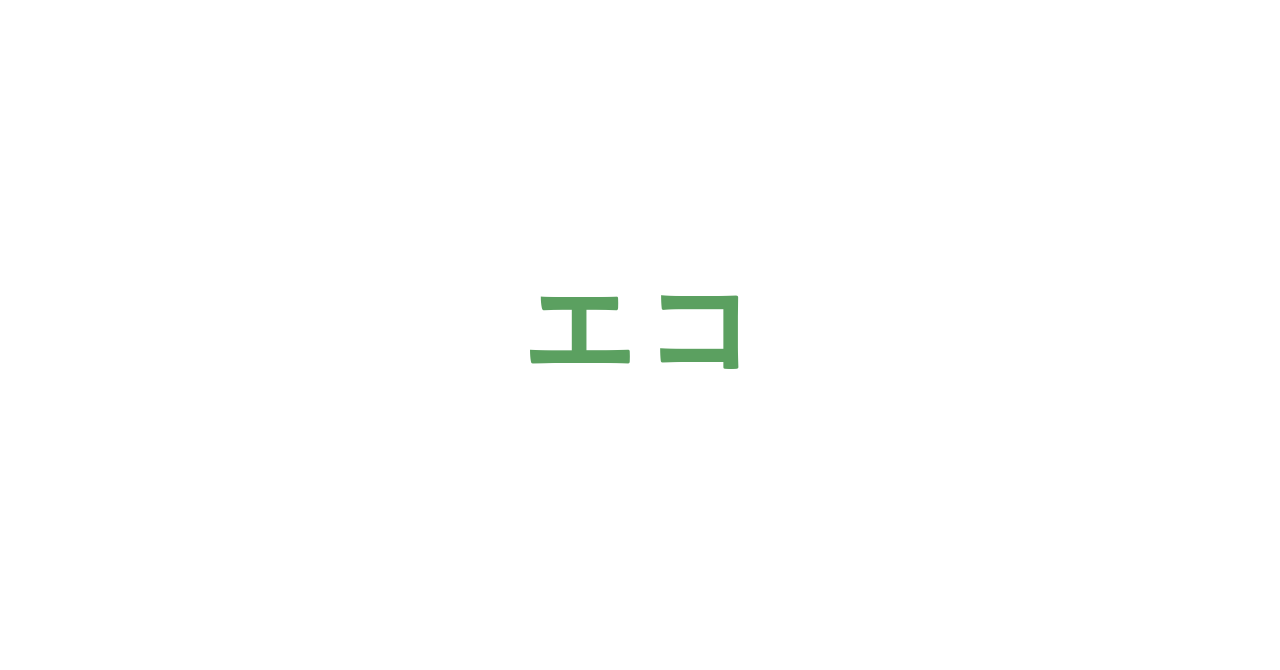
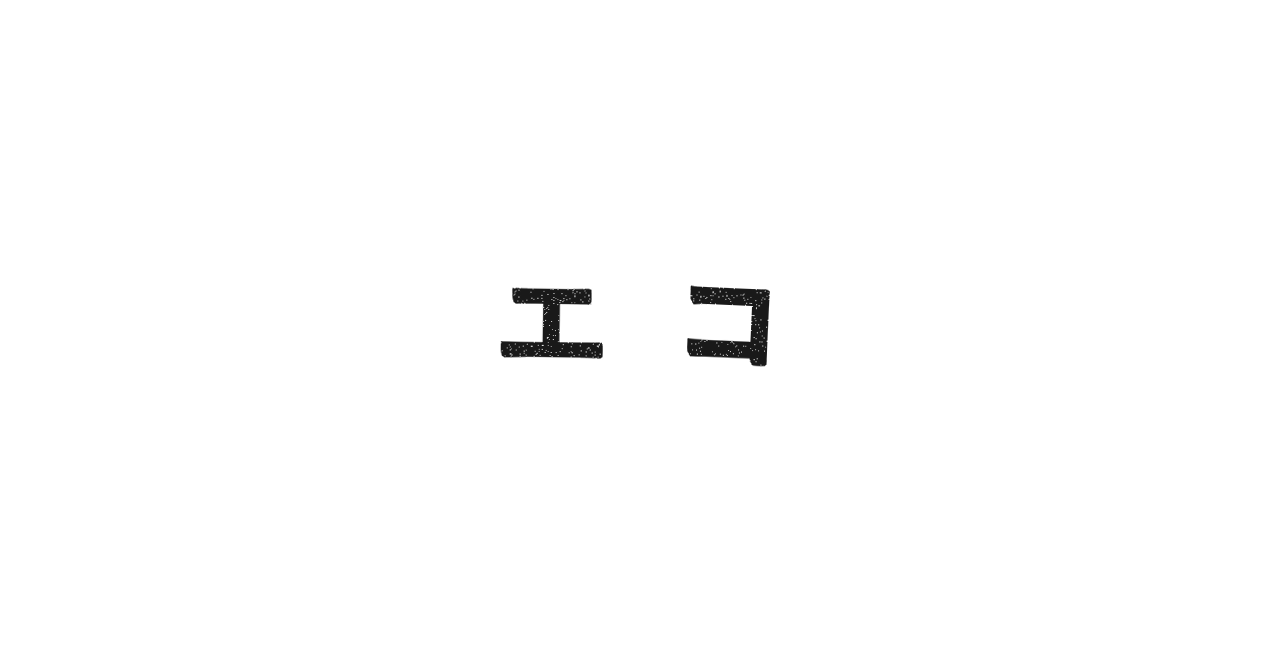
note: 見出し画像を黒・手書きペン風に変更（白背景中央の『エコ』）

Changed region(s): [[0.375, 0.4179, 0.625, 0.5672]]

diff --git a/note/_gen_note_header.py b/note/_gen_note_header.py
@@ -1,21 +1,27 @@
 """note記事のトップ画像（見出し画像）を生成。
-   白背景の中央に、緑の「エコ」を小さく。
+   白背景の中央に、黒の「エコ」を手書き風（ペン）で。
    出力: note/note_header.png（1280×670, noteの推奨比率）
+
+   手書き感の出し方（Pillowのみ）：
+   - フォントを高解像度で一旦描画
+   - 各文字を微妙に回転・上下にずらす（紙に書いた揺れ）
+   - 輪郭をわずかにジッターさせ、線にかすれ（白い抜け）を入れる
 """
-from PIL import Image, ImageDraw, ImageFont
-import os
+from PIL import Image, ImageDraw, ImageFont, ImageFilter
+import os, math, random
 
 HERE = os.path.dirname(os.path.abspath(__file__))
 OUT = os.path.join(HERE, "note_header.png")
 
 W, H = 1280, 670
-GREEN_DEEP = (91, 160, 96)   # #5BA060
+INK = (25, 25, 25)  # ほぼ黒（少し柔らかい黒）
 
-def get_font(size, bold=True):
+def get_font(size):
+    # 手書き風フォントがあれば優先、無ければ太めゴシック
     candidates = [
-        r"C:\Windows\Fonts\YuGothB.ttc" if bold else r"C:\Windows\Fonts\YuGothR.ttc",
-        r"C:\Windows\Fonts\meiryob.ttc" if bold else r"C:\Windows\Fonts\meiryo.ttc",
-        r"C:\Windows\Fonts\YuGothM.ttc",
+        r"C:\Windows\Fonts\YuGothB.ttc",
+        r"C:\Windows\Fonts\HGRPP1.TTC",   # HG創英角ポップ体（あれば手書き寄り）
+        r"C:\Windows\Fonts\meiryob.ttc",
         r"C:\Windows\Fonts\msgothic.ttc",
     ]
     for p in candidates:
@@ -26,22 +32,73 @@ def get_font(size, bold=True):
                 continue
     return ImageFont.load_default()
 
-def main():
-    img = Image.new("RGB", (W, H), "white")
-    draw = ImageDraw.Draw(img)
 
-    # 「エコ」を緑で、小さめ・中央に
-    font = get_font(120, bold=True)
-    text = "エコ"
-    bbox = draw.textbbox((0, 0), text, font=font)
-    tw = bbox[2] - bbox[0]
-    th = bbox[3] - bbox[1]
-    x = (W - tw) / 2 - bbox[0]
-    y = (H - th) / 2 - bbox[1]
-    draw.text((x, y), text, fill=GREEN_DEEP, font=font)
+def render_char(ch, font, jitter=2.0, scale=4):
+    """1文字を高解像度で描画し、輪郭をジッターさせた手書き風アルファマスクを返す。
+       マスク値 = インクの濃さ（255=真っ黒）。"""
+    rnd = random.Random(ord(ch) * 7 + 3)
+    bbox = font.getbbox(ch)
+    cw = (bbox[2] - bbox[0]) + 40
+    chh = (bbox[3] - bbox[1]) + 40
+    big = Image.new("L", (cw * scale, chh * scale), 0)
+    d = ImageDraw.Draw(big)
+    bigfont = font.font_variant(size=font.size * scale)
+    bx = -bbox[0] * scale + 20 * scale
+    by = -bbox[1] * scale + 20 * scale
+    # 本体をしっかり濃く（255）描く
+    d.text((bx, by), ch, fill=255, font=bigfont)
+    # 手書きの揺れ：少しずらして重ね描き（線に強弱）。値も濃いめ
+    for _ in range(4):
+        ox = rnd.uniform(-jitter, jitter) * scale
+        oy = rnd.uniform(-jitter, jitter) * scale
+        d.text((bx + ox, by + oy), ch, fill=220, font=bigfont)
+    # 縮小（アンチエイリアス）
+    small = big.resize((cw, chh), Image.LANCZOS)
+    # しきい値で締める：薄い縁だけ残しつつ本体を濃く
+    px = small.load()
+    for y in range(chh):
+        for x in range(cw):
+            v = px[x, y]
+            if v < 30:
+                px[x, y] = 0
+            elif v > 60:
+                # 本体はほぼ最大濃度に。たまにかすれ
+                if rnd.random() < 0.05:
+                    px[x, y] = int(v * rnd.uniform(0.25, 0.6))  # かすれ（インク抜け）
+                else:
+                    px[x, y] = min(255, int(v * 1.4))
+    return small, cw, chh
+
+
+def main():
+    random.seed(42)
+    img = Image.new("RGB", (W, H), "white")
+
+    font = get_font(120)
+    chars = "エコ"
+    rendered = [render_char(c, font) for c in chars]
+
+    gap = 18
+    total_w = sum(cw for _, cw, _ in rendered) + gap * (len(chars) - 1)
+    max_h = max(chh for _, _, chh in rendered)
+    start_x = (W - total_w) // 2
+    base_y = (H - max_h) // 2
+
+    rnd = random.Random(99)
+    x = start_x
+    for mask, cw, chh in rendered:
+        # 文字ごとに微回転＆上下のばらつき（手書きの揺れ）
+        angle = rnd.uniform(-4, 4)
+        dy = rnd.uniform(-10, 10)
+        # インク色のRGB画像を作り、maskで合成
+        ink_layer = Image.new("RGB", mask.size, INK)
+        rotated_mask = mask.rotate(angle, resample=Image.BICUBIC, expand=False)
+        img.paste(ink_layer, (int(x), int(base_y + dy)), rotated_mask)
+        x += cw + gap
 
     img.save(OUT, "PNG")
     print(f"[OK] {OUT}")
+
 
 if __name__ == "__main__":
     main()